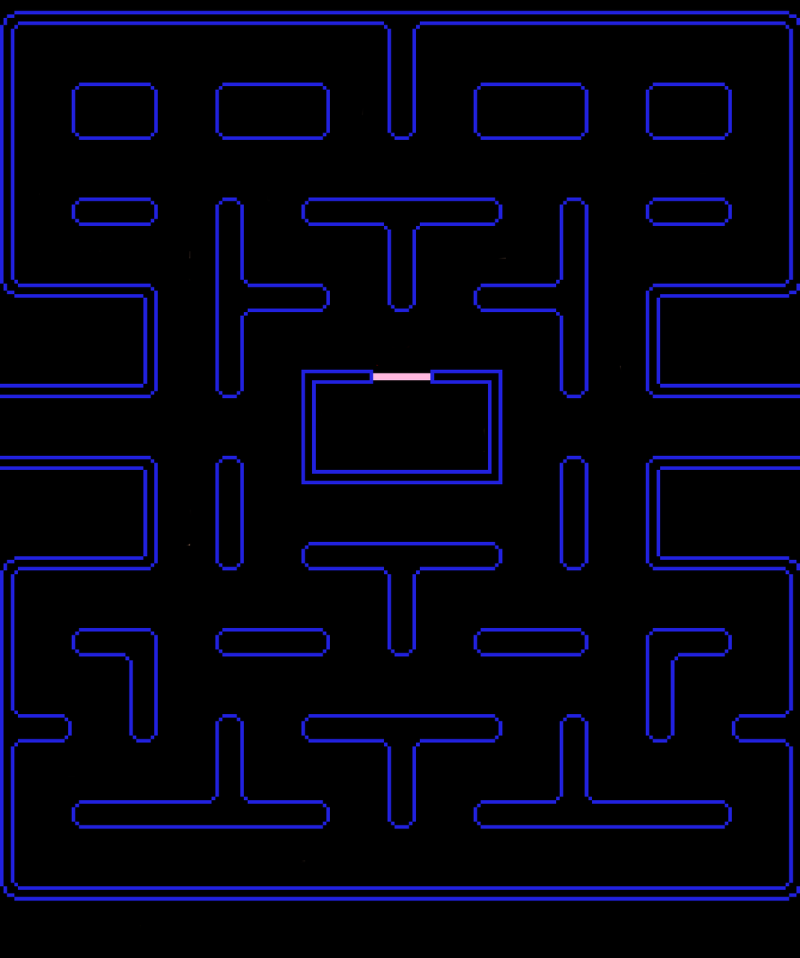
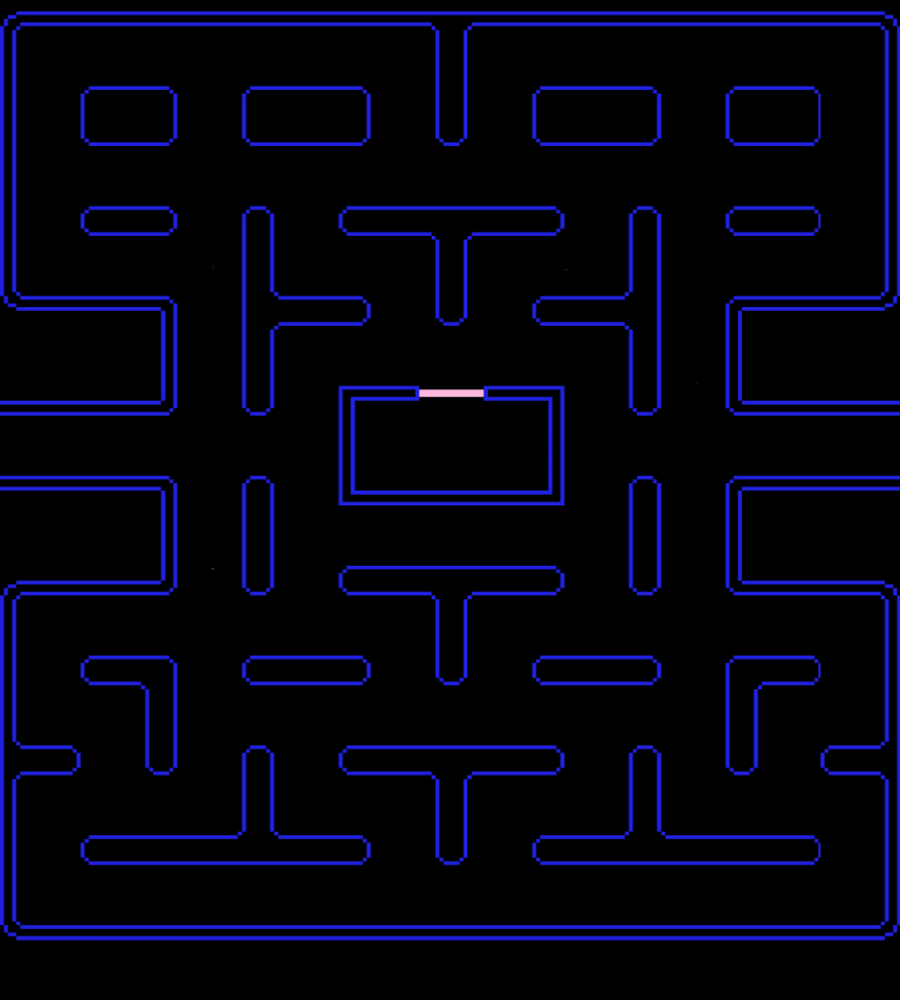
debug détection couleur

diff --git a/2_generale.c b/2_generale.c
@@ -10,7 +10,7 @@ float distance(POINT p, POINT p1){
 
 void initialiser_partie()
 {
-    initialiser_ecran( LARGEUR, HAUTEUR, "Pacman" ); 
+    initialiser_fenetre( LARGEUR, HAUTEUR, "Pacman" ); 
     affiche_auto_off();
     
     img_map = charger_image("map.png");
@@ -34,38 +34,18 @@ void collision_mur(PACMAN pacman){
     
     c_pacman = couleur_map(P);
     
-    if(c_pacman == 1){
-        pacman.vitesse.x = 0;
-        pacman.vitesse.y = 0;
-    }
+    printf("c_pacman = %d\n", c_pacman);
+    fflush(stdout);
     
-    P.x = pacman.position.x ;
-    P.y = pacman.position.y+ 20;
-     
     if(c_pacman == 1){
         pacman.vitesse.x = 0;
         pacman.vitesse.y = 0;
     }
-    
-    P.x = pacman.position.x - 20;
-    P.y = pacman.position.y;
-     
-    if(c_pacman == 1){
-        pacman.vitesse.x = 0;
-        pacman.vitesse.y = 0;
-    }
-    
-    P.x = pacman.position.x ;
-    P.y = pacman.position.y - 20;
-     
-    if(c_pacman == 1){
-        pacman.vitesse.x = 0;
-        pacman.vitesse.y = 0;
-    }
+
 }
 
 //fct° qui vérifie la collision entre pacman et les fantome
-int collision(PACMAN pacman, FANTOME fantome){
+/*int collision(PACMAN pacman, FANTOME fantome){
     
     
 }
@@ -73,7 +53,7 @@ int collision(PACMAN pacman, FANTOME fantome){
 //fct° qui vérifie les conditions de perte (renvoie 0 si le joueur à perdu)
 int continuer_a_jouer(){
 
-}
+}*/
 
 //fct° qui s'occupe de tout dessiner...
 void dessiner_le_jeu(int frame){

diff --git a/1_jeu Pacman.c b/1_jeu Pacman.c
@@ -1,8 +1,8 @@
 #include "toolbox.h"
 
 /* Quelques constantes qui seront utilisees dans tout le programme */
-#define HAUTEUR 958             // Dimensions de l'écran
-#define LARGEUR 800
+#define HAUTEUR 1000             // Dimensions la photo map.png
+#define LARGEUR 900
 #define VITESSE 5               // Vitesse de déplacement
 
 #include "6_definition.c"
@@ -42,10 +42,10 @@ int main( int argc, char** argv )
         if(frame==20){
             frame = 0;}
             
-        
-        avancer_le_jeu();               // 2. On fait avancer la partie
         collision_mur(pacman);
-        jouer = continuer_a_jouer();    // 3. On teste si le joueur a perdu        
+        avancer_le_jeu();               // 2. On fait avancer la partie
+        
+        //jouer = continuer_a_jouer();    // 3. On teste si le joueur a perdu        
         attendre(30);                   // 4. Un pause pour que le jeu n'aille pas trop vite
     }   
     

diff --git a/5_map.c b/5_map.c
@@ -9,20 +9,22 @@ void dessiner_map(){
 
 //renvoie 1 ou 2 en fonction de la couleur du pixel sur la map_collisions
 int couleur_map(POINT p){
-    COULEUR c; 
+    COULEUR c;
+    int couleur; 
     
     c = lire_pixel_image(img_map_collision, p);
     
-    DebugInt("couleur lue", c);
-    DebugInt("couleur 1", couleur_RGB(255,0,0));
+    printf("Couleur lue : 0x%08X\n", c);
+    printf("Couleur  C1 : 0x%08X\n\n", couleur_RGB(9, 250, 255));
+    fflush(stdout);
     
     if(c == couleur_RGB(255, 0, 0)){
-        return 1;
+        couleur = 1;
     }
     
-    if(c == couleur_RGB(0, 255, 255)){
-        return 2;
+    if(c == couleur_RGB(255, 255, 0)){
+        couleur = 2;
     }
     
-   
+    return couleur;
 }

diff --git a/4_Fantomes.c b/4_Fantomes.c
@@ -27,6 +27,6 @@ FANTOME creer_fantome(){
 }*/
 
 //fct° qui envoie les fantômes (qui sont des bots) vers Pacman
-FANTOME vers_pacman(FANTOME f){
+/*FANTOME vers_pacman(FANTOME f){
 
-}
+}*/
